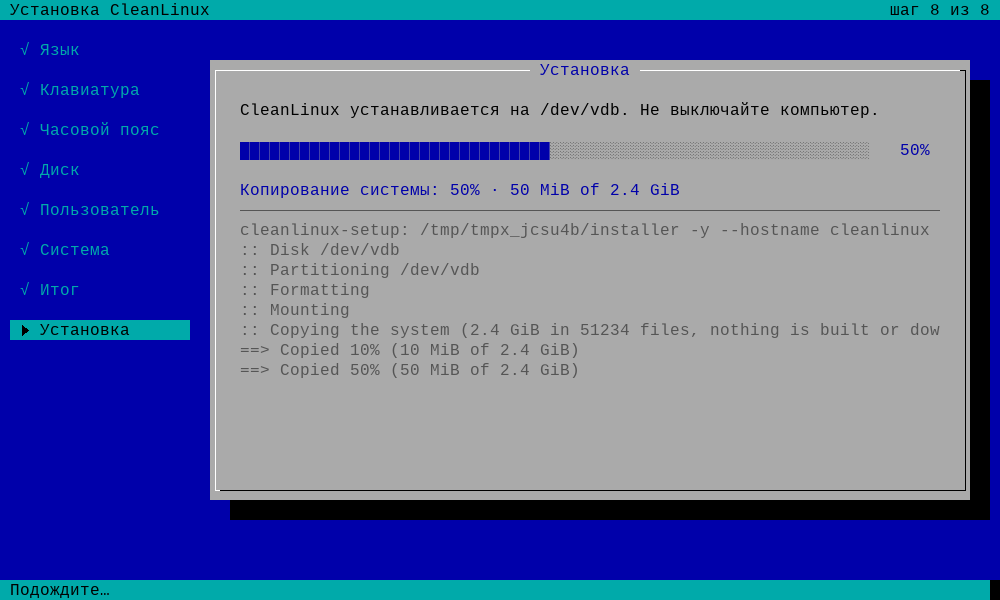
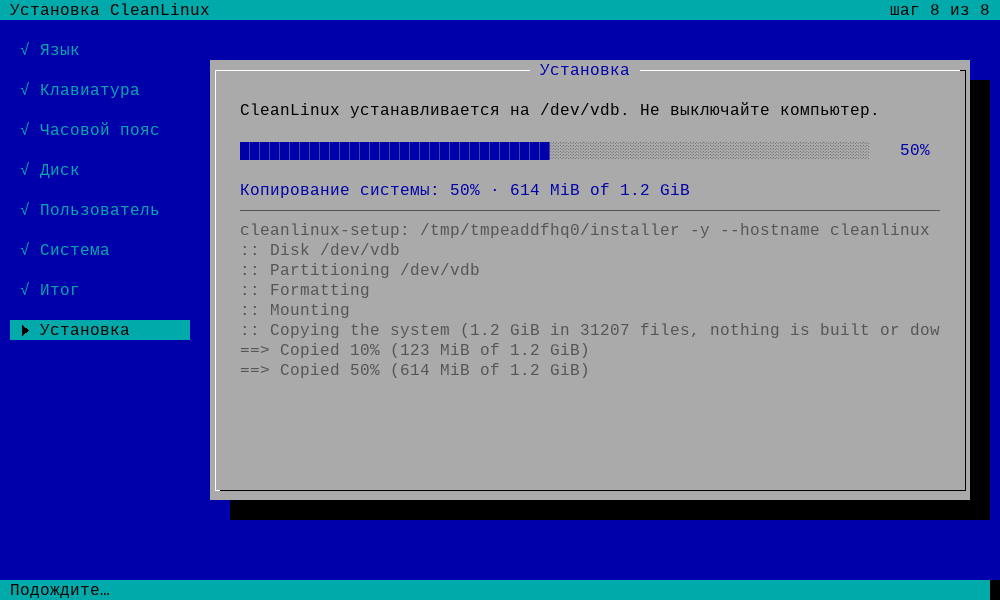
tests: the stand-in copy prints consistent numbers (614 MiB of 1.2 GiB at 50%)
The picture of the installation screen and the README showed 50% as
"50 MiB of 2.4 GiB"; docs/screens/8-install.png made again.

Changed region(s): [[0.403, 0.54, 0.589, 0.63], [0.496, 0.3, 0.713, 0.33], [0.496, 0.36, 0.589, 0.39]]

diff --git a/tests/setup.py b/tests/setup.py
@@ -234,8 +234,8 @@ step "Disk /dev/vdb"
 step "Partitioning /dev/vdb"
 step "Formatting"
 step "Mounting"
-step "Copying the system (2.4 GiB in 51234 files, nothing is built or downloaded)"
-for p in 10 50 100; do echo "==> Copied $p%% ($p MiB of 2.4 GiB)"; sleep 0.3; done
+step "Copying the system (1.2 GiB in 31207 files, nothing is built or downloaded)"
+for c in "10 123 MiB" "50 614 MiB" "100 1.2 GiB"; do set -- $c; echo "==> Copied $1%% ($2 $3 of 1.2 GiB)"; sleep 0.3; done
 if [ -n "${FAKE_FAIL:-}" ]; then
 	echo "error: something broke"
 	exit "$FAKE_FAIL"
@@ -373,7 +373,7 @@ def test_english(binary, tmp, data):
     t.send(ENTER, RIGHT, ENTER)
     scr = t.wait_for("Installing", "Copying the system: ", ":: Mounting", "step 8 of 8", timeout=15)
     check("[1;36m" not in scr, "the log tail without colors", scr)
-    t.wait_for("Copying the system: 50% · 50 MiB of 2.4 GiB", timeout=15)
+    t.wait_for("Copying the system: 50% · 614 MiB of 1.2 GiB", timeout=15)
     scr = t.wait_for("CleanLinux is installed", "Remove the USB stick", "The desktop (labwc) starts",
                      "Exit to the console", "√ Installation", timeout=20)
     args = open(os.path.join(out, "args")).read().split("\n")

diff --git a/README.md b/README.md
@@ -70,7 +70,7 @@ image when the profile says so). No disk encryption: the base system has none. C
 | 5 | Пользователь | имя компьютера, имя пользователя (в `wheel`), пароль дважды; root получает тот же пароль |
 | 6 | Система | **рабочий стол** — спины с флешки (`labwc`) или «нет (консоль)»; **проприетарные драйверы** — включены/выключены (`ALLOW_NONFREE`); **профиль** — если `burn profile detect` узнал устройство; **автоматический вход** — пользователь входит на tty1 сам и рабочий стол открывается сразу (по умолчанию включён для портативных консолей: у их профиля есть `handheld`) |
 | 7 | Итог | сводка; «Установить» → «Стереть диск?» (по умолчанию — «Назад») |
-| 8 | Установка | шаги, «Копирование системы: 45% · 1.1 GiB из 2.4 GiB», полоса и хвост журнала; затем перезагрузить, выключить или выйти в консоль |
+| 8 | Установка | шаги, «Копирование системы: 50% · 614 MiB of 1.2 GiB», полоса и хвост журнала; затем перезагрузить, выключить или выйти в консоль |
 
 Управление: ↑↓ и Enter, ←→ или Пробел меняют значение на экране «Система», Esc — назад, Tab — следующее
 поле, Ctrl+C — выйти (до подтверждения на дисках ничего не меняется). На экране от 84×18 слева виден список
@@ -154,7 +154,7 @@ cleanlinux-install --clone -p "base linux" /dev/sda  # пакетами burn clo
 3. Спрашивает подтверждение (`--yes` — без него) и пароли — до того, как что-то изменится.
 4. Размечает (`sfdisk`, свои случайные PARTUUID), форматирует (`mkfs.vfat`, `mkfs.btrfs`), создаёт подтома
    ioctl-ом btrfs и монтирует новую систему в `--target`.
-5. Копирует систему: `@`, затем `nonfree/` и спин — «Copied 45% (1.1 GiB of 2.4 GiB)» по мере копирования
+5. Копирует систему: `@`, затем `nonfree/` и спин — «Copied 50% (614 MiB of 1.2 GiB)» по мере копирования
    (с `--clone` — `burn -r /mnt -y clone /`, пакеты из кэша в порядке зависимостей с триггерами).
 6. Пишет `/etc/kernel/cmdline`: `root=PARTUUID=… rootflags=subvol=@ rootwait ro` + `--cmdline`.
 7. Настраивает: `fstab` по PARTUUID, `hostname`, часовой пояс (`/etc/localtime` → `--timezone`, иначе как в
